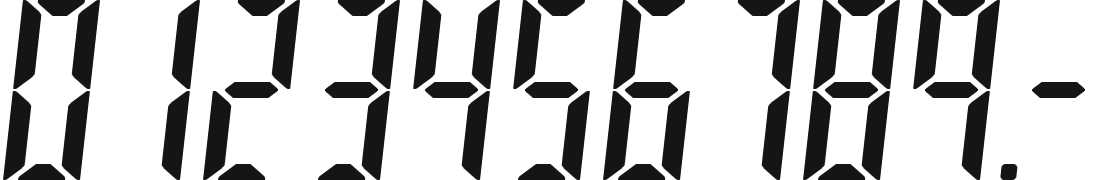
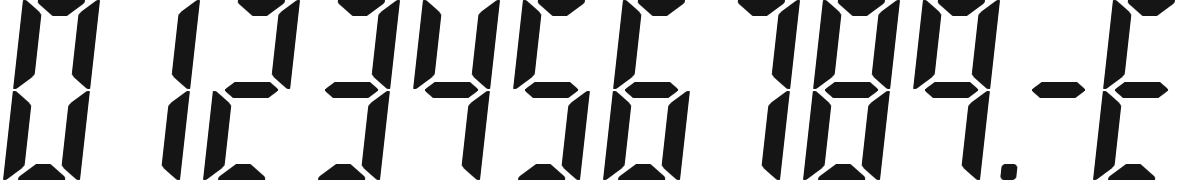
Display exponentiation

diff --git a/public/index.html b/public/index.html
@@ -33,8 +33,19 @@
       function setValue(n)
       {
         value = n;
+        var displayValue = value;
 
-        var chars = value.toString().split("");
+        if (displayValue > 99999999) {
+          displayValue = displayValue.toExponential(4);
+        } else if (displayValue < -99999999) {
+          displayValue = displayValue.toExponential(4);
+        } else if (displayValue > 0 && displayValue < 0.0000001) {
+          displayValue = displayValue.toExponential(4);
+        } else if (displayValue < 0 && displayValue > -0.0000001) {
+          displayValue = displayValue.toExponential(3);
+        }
+
+        var chars = displayValue.toString().split("");
         var html = "";
 
         for (var c of chars) {
@@ -42,7 +53,9 @@
             html += "<span class=\"resultchar negative\">" + c + "</span>";
           } else if (c == '.') {
             html += "<span class=\"resultchar decimal\">" + c + "</span>";
-          } else {
+          } else if (c == 'e') {
+            html += "<span class=\"resultchar exponent\">e</span>";
+          } else if (c != '+') {
             html += "<span class=\"resultchar digit" + c + "\">" + c + "</span>";
           }
         }

diff --git a/public/default.css b/public/default.css
@@ -137,3 +137,9 @@ BUTTON
   background-position: -257px 0;
   width: 17px;
 }
+
+.resultchar.exponent
+{
+  background-position: -274px 0;
+  width: 25px;
+}
